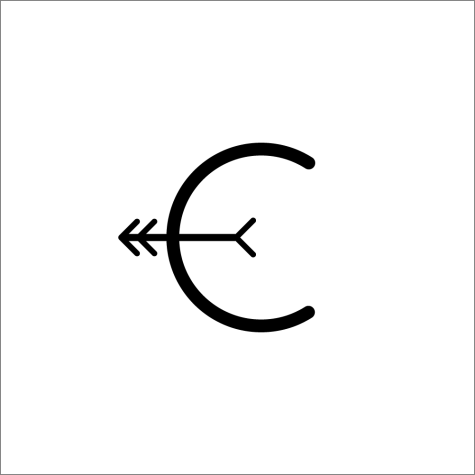
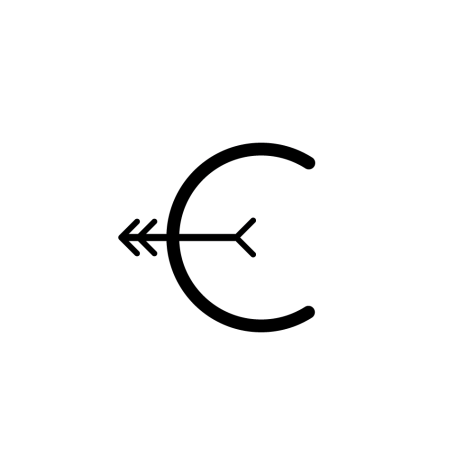
Added dark mode and day eleven hint

diff --git a/src/pages/about.js b/src/pages/about.js
@@ -13,18 +13,36 @@ const A = styled.text`
     transition: all 0.25s ease;
   }
 `
+const About = styled.div` 
+  color: #D3D3D3;
+  h1 {
+    color: #E95420;
+  }
+`
 
 const AboutPage = () => (
   <Layout>
     <SEO title="About" />
-    <h1>About</h1>
-    <p>A cryptic hunt is an online multiplayer event that involves players having to follow a trail of leads and clues to get to a question's answer. These answers aren't directly available on the internet, and each question generally takes a great deal of patience and mental prowess to solve.</p>
-    <p>
-      <Link to="/format" style={{ textDecoration:'none', color:'inherit' }}><A>Click here</A></Link> for more details regarding the event.
-      <Link to="/leaderboard" style={{ textDecoration:'none', color:'inherit' }}><A> Click here</A></Link> to view the leaderboard.
-    </p>
-    <h1>Members</h1>
-        <MemberLayout />
+    <About>
+      <h1>About</h1>
+      <p>A cryptic hunt is an online multiplayer event that involves players having to follow a trail of leads and clues to get to a question's answer. These answers aren't directly available on the internet, and each question generally takes a great deal of patience and mental prowess to solve.</p>
+      <p>
+        <Link to="/format" style={{ textDecoration:'none', color:'inherit' }}><A>Click here</A></Link> for more details regarding the event.
+        <Link to="/leaderboard" style={{ textDecoration:'none', color:'inherit' }}><A> Click here</A></Link> to view the leaderboard.
+      </p>
+      <h1>Prizes</h1>
+      <p>
+          <b>1st -</b> ₹20,000*<br />
+          <b>2nd -</b> ₹15,000*<br />
+          <b>3rd -</b> ₹10,000*<br />
+          <b>4th to 15th -</b> ₹1,000* each<br />
+      </p>
+        <p> In addition to this, everyone in the <b>top 100</b> will receive a <b>.co domain</b> of their choosing. Everyone in the <b>top 15</b> will also receive a <b>.us domain</b> along with their <b>.co domain.</b> Premium domains are not permitted.<br />
+          <i style={{ fontSize:'12px' }}>*prizes will be in the form of an Amazon gift card</i>
+        </p>
+      <h1>Members</h1>
+      <MemberLayout />
+    </About>
   </Layout>
 )
 

diff --git a/data/clitext.js b/data/clitext.js
@@ -158,12 +158,26 @@ export default [
         The exact amount you will receive will be revealed along with the rest of the game economy. 
         A person can report the guilty individual within 30 minutes of them last approaching the player for answers.
         Methods of reporting including screenshots of conversations, audio recordings of calls, etc. 
-        Also, we're proud to announce that our official sponsor is IvyAchievement! Check them out <a href="https://www.ivyachievement.com/">here</a>. 
+        Also, we're proud to announce that our official sponsor is IvyAchievement! Check them out <a href="https://www.ivyachievement.com/" style={{ color: 'inherit' }}>here</a>. 
     </text>
     ),
   },
   {
-    command: 'sudo cat day-eleven-rule.txt',
+    date: (
+      <text>
+        Sat Jun 13 00:39:38 IST 2020
+        <br />
+      </text>
+    ),
+    command: 'cat day-eleven-rule.txt',
+    text: (
+      <text>
+        Prizes have been revealed, check them out <a href="https://www.instagram.com/p/CBWK36Hl995/?igshid=kws9jeec5w0j" style={{ color: 'inherit' }}>here</a>.
+      </text>
+    )
+  },
+  {
+    command: 'sudo cat day-twelve-rule.txt',
     commandText: (
       <text>
         [sudo] password for villager:
@@ -171,6 +185,6 @@ export default [
       </text>
     ),
     text:
-      'cat: day-eleven-rule.txt: No such file or directory. Check back tomorrow for the next bit of information.',
+      'cat: day-twelve-rule.txt: No such file or directory. Check back tomorrow for the next bit of information.',
   },
 ]

diff --git a/src/components/Register/form.js b/src/components/Register/form.js
@@ -19,11 +19,15 @@ const Form = styled.form`
 const Input = styled.input`
   max-width: 45%;
   padding: 15px 20px;
-  border-radius: 5px;
+  border: 2px solid #545454;
+  border-radius: 3px;
   outline: none;
-  border: 1px solid #d0d0d0;
+  color: #D3D3D3;
   margin: 10px 0;
-
+  background: #23272a;
+  &::placeholder {
+    color: #686d71;
+  }
   @media screen and (max-width: 768px) {
     max-width: 100%;
   }
@@ -44,11 +48,6 @@ const Button = styled(NavButton)`
   @media screen and (max-width: 768px) {
     width: 30%;
   }
-`
-
-const Info = styled.text`
-  font-size: 0.8em;
-  margin: 10px 0 0 0;
 `
 
 const RegisterForm = () => {
@@ -172,13 +171,9 @@ const RegisterForm = () => {
           <Recaptcha
             sitekey="6LcMqP4UAAAAAHPJgLnbWmMh1Y_dVSFgbTHTiT2K"
             onChange={val => setRecaptcha(val)}
+            theme= "dark"
           />
         </text>
-        <Info>
-          Please give upto 15 seconds for the registration to get validated.
-          <br /> If the unresponsiveness persists, re-click the submit button.
-          <br /> We apologize for the inconvenience.
-        </Info>
         <Button type="submit" onClick={() => setSubmitted(!submitted)}>
           {submitted ? (
             <Loader

diff --git a/src/components/memberlayout.js b/src/components/memberlayout.js
@@ -11,7 +11,7 @@ const AboutContainer = styled.div`
 `
 
 const AboutBox = styled.div`
-    border: 2px #f5f5f5 solid;
+    border: 2px #BCB8B1 solid;
     padding: 20px;
     margin: 0 10px 20px 0;
     text-align: center;
@@ -22,6 +22,9 @@ const AboutBox = styled.div`
         transition: all 0.25s ease;
         transform: translateY(-2px);
     } 
+    info {
+        color: #FFFFFA;
+    }
     i {
         font-size: 0.9em;
         white-space: pre;
@@ -40,6 +43,7 @@ const Title = styled.div`
     font-size: 1.15em;
     font-weight: 600;
     margin: 20px;
+    color: #E95420;
 ` 
 
 const ButtonDiscord = styled.button`
@@ -48,10 +52,12 @@ const ButtonDiscord = styled.button`
     margin-top: 10px;
     border: 0;
     border-radius: 3px;
-    color: white;
-    background: rgba(0,0,0,0.8);
+    /* color: white; */
+    /* background: rgba(0,0,0,0.8); */
     font-size: 0.8rem;
     cursor: pointer;
+    color: #23272a;
+    background: #BCB8B1;
     transition: transform 0.3s ease;
     &:hover {
         transform: translateY(-2px);

diff --git a/src/components/leaderboardlayout.js b/src/components/leaderboardlayout.js
@@ -11,6 +11,10 @@ const Table = styled.table`
     }
 `
 
+const Leaderboard = styled.div`
+    color: #D3D3D3;
+`
+
 function LeaderboardLayout(props) {
     const [fetchedData, setFetchedData] = useState([])  
     useEffect(() => {
@@ -20,12 +24,15 @@ function LeaderboardLayout(props) {
     }, [])    
     return (
         <Layout>
-            <h1>Leaderboard</h1>
+            <Leaderboard>
+            <h1 style={{
+                color: '#E95420'
+            }}>Leaderboard</h1>
             <p>Ctrl+F to search the registrations.</p>
             <Table>
                 <tr>
-                    <th>Username</th>
-                    <th>Score</th>
+                    <th>USERNAME</th>
+                    <th>SCORE</th>
                 </tr>
                 {fetchedData.map(({ username, points }) => (
                     <tr>
@@ -34,6 +41,7 @@ function LeaderboardLayout(props) {
                     </tr>
                 ))}
             </Table>
+            </Leaderboard>
         </Layout>
     )
 }

diff --git a/src/components/Home/Landing.js b/src/components/Home/Landing.js
@@ -12,7 +12,7 @@ const Container = styled.div`
   /* background: green; */
   display: grid;
   grid-template-columns: repeat(2, 1fr);
-
+  color: white;
   padding: 18vh 0;
 
   @media screen and (max-width: 768px) {
@@ -27,18 +27,21 @@ export const Heading = styled.div`
   font-family: 'Avenir Black';
   font-size: 7vh;
   line-height: 7vh;
+  color: #E95420;
 `
 
 const Subheading = styled.div`
   font-family: 'Avenir Medium';
-  font-size: 2vh;
+  font-size: 20px;
   margin-top: 2vh;
+  /* color: #FFFFFA; */
+  color: #D3D3D3;
 
   padding-right: 5rem;
 
   @media screen and (max-width: 768px) {
     padding-right: 1rem;
-    font-size: 2.5vh;
+    font-size: 18px;
   }
 `
 
@@ -58,9 +61,9 @@ function Landing() {
         <Button onClick={() => navigate('/register')}>Register</Button>
         <Button onClick={() => navigate('/about')} style={{ marginLeft:'1em'}}>About</Button>
       </div>
-      <div>
+      {/* <div>
         <LandingAnimation />
-      </div>
+      </div> */}
     </Container>
   )
 }

diff --git a/src/components/navbar.js b/src/components/navbar.js
@@ -11,16 +11,18 @@ export const Button = styled.button`
   border: 0;
   padding: 0;
   padding: 5px 30px;
+  margin-top: 2vh;
   border-radius: 3px;
-  color: white;
-  background: #2977f5;
-  box-shadow: 0px 4px 35px rgba(0, 0, 0, 0.25);
+  color: #23272a;
+  /* background: #2977f5; */
+  background: #BCB8B1;
+  /* box-shadow: 0px 4px 35px rgba(0, 0, 0, 0.25); */
   font-size: 0.8rem;
   cursor: pointer;
   transition: box-shadow 0.3s ease, transform 0.3s ease;
 
   &:hover {
-    box-shadow: 0px 7px 35px #2977f590;
+    /* box-shadow: 0px 7px 35px #2977f590; */
     transform: translateY(-1px);
     outline: none;
   }

diff --git a/src/components/formatlayout.js b/src/components/formatlayout.js
@@ -18,6 +18,7 @@ const Terminal = styled.div`
         transition: all 0.25s ease;
         width: 75%;
     }
+    color: #D3D3D3;
 `
 
 const Tag = styled.text`
@@ -30,11 +31,11 @@ const Blinking = styled.span`
     animation:blinkingText 1.2s infinite;
     } 
     @keyframes blinkingText {
-        0% {color: black;}
-        49% {color: black;}
+        0% {color: #D3D3D3;}
+        49% {color: #D3D3D3;}
         60% {color: transparent;}
         99% {color:transparent;}
-        100% {color: black;}
+        100% {color: #D3D3D3;}
     }
 `
 

diff --git a/src/components/header.js b/src/components/header.js
@@ -5,7 +5,7 @@ import PropTypes from 'prop-types'
 
 import Navbar from './navbar'
 
-import logo from '../images/gatsby-icon.webp'
+import logo from '../images/crypticlogo.svg'
 
 const Container = styled.header`
   /* margin-bottom: 1rem; */

diff --git a/src/components/layout.js b/src/components/layout.js
@@ -44,7 +44,8 @@ const FooterLinks = styled.div`
 
   a {
     padding: 20px 15px 0 0;
-    color: #565656;
+    /* color: #AEA79F; */
+    color: #D3D3D3;
     text-decoration: none;
     display: inline-block;
   }

diff --git a/data/members.js b/data/members.js
@@ -2,7 +2,7 @@ export default [
   {
       name: 'Angad Singh',
       post: 'Priest',
-      email: 'mailto:angadsingh567890@gmail.com',
+      email: 'mailto:mail@angad.dev',
   },
   {
       name: 'Somesh Kar',

diff --git a/src/components/socialItems.js b/src/components/socialItems.js
@@ -17,7 +17,7 @@ const Container = styled.div`
 `
 
 const A = styled.a`
-  color: #565656;
+  color: #D3D3D3;
   text-decoration: none;
   font-size: 25px;
   transition: all 0.2s ease-in;
